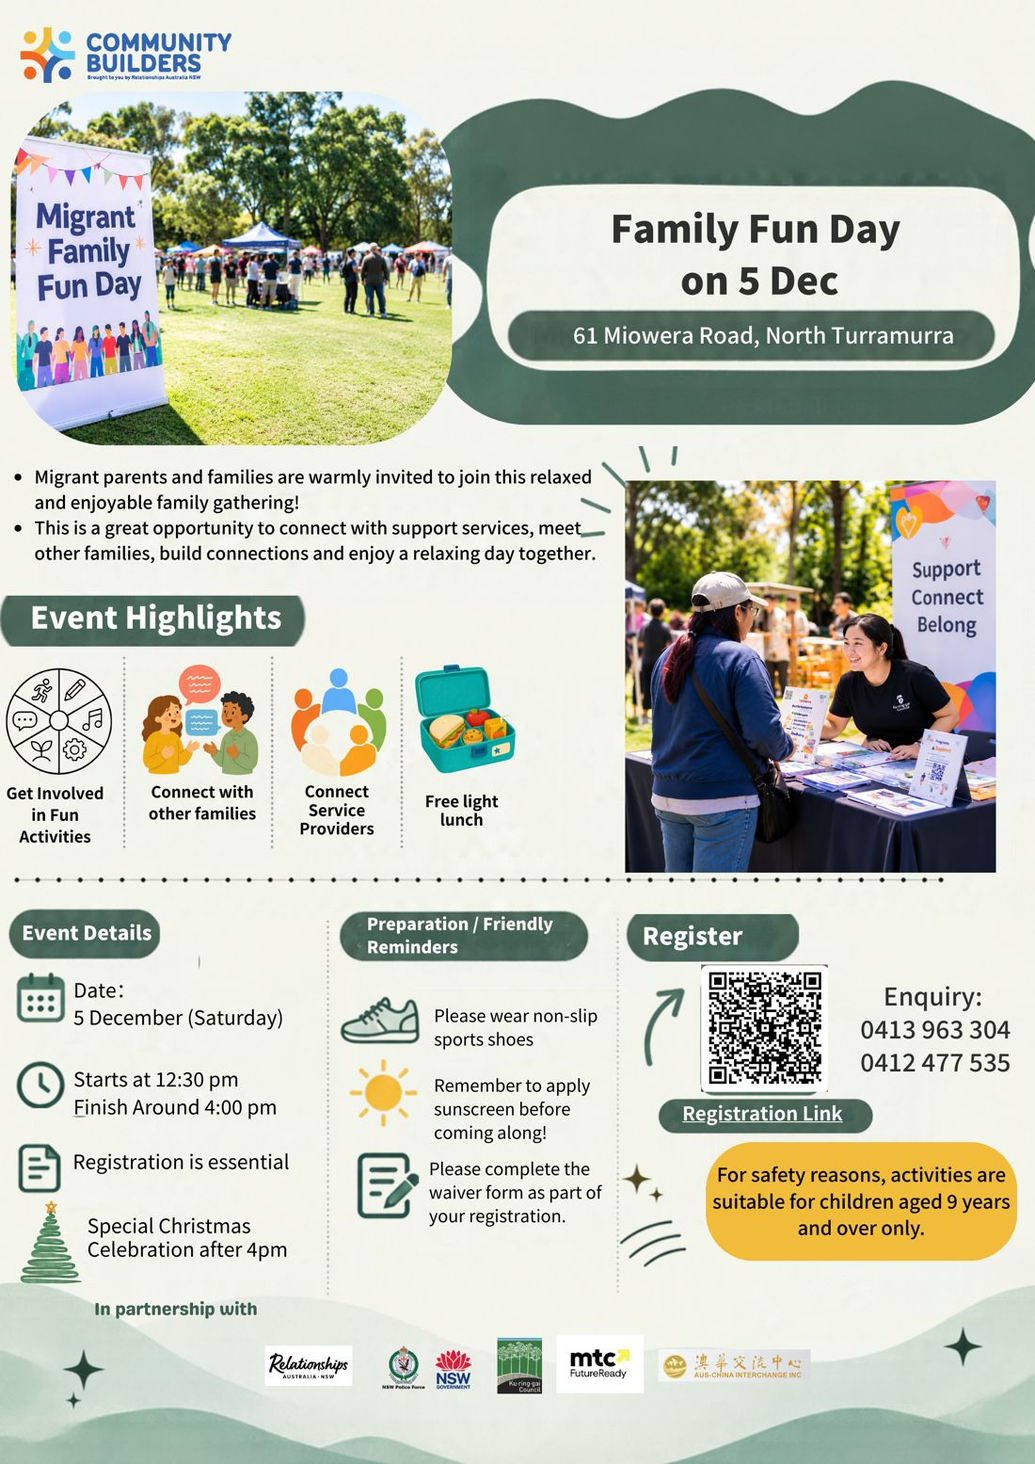
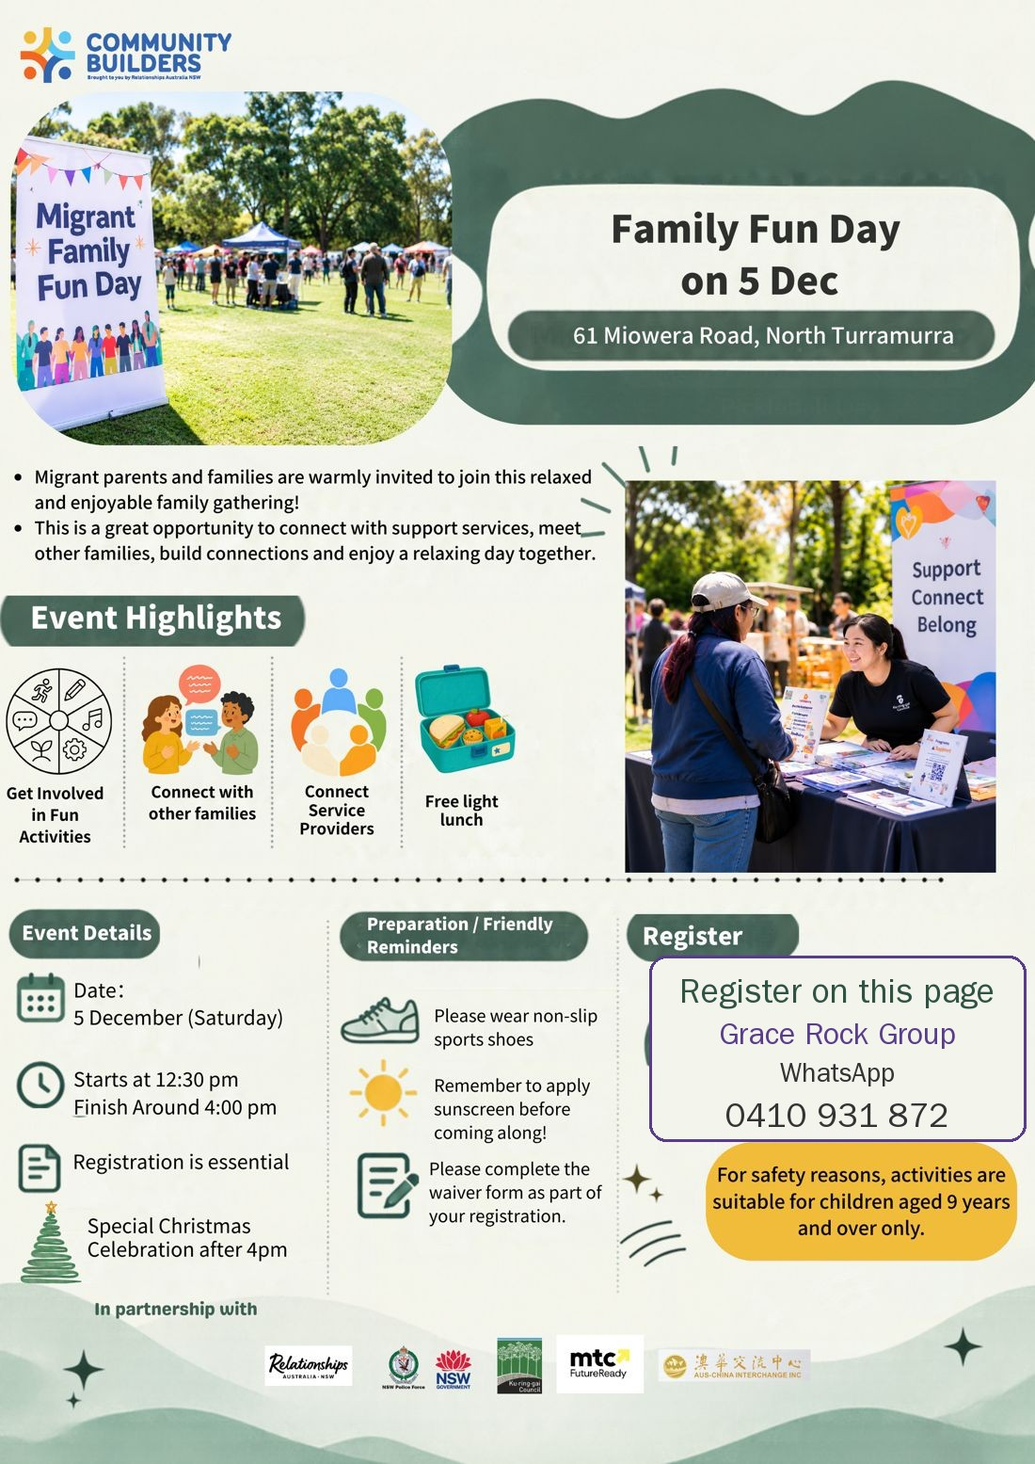
Dec 5 pages: register only via Grace Rock; cover other QR/contacts on posters (#126)
Claude-Session: https://claude.ai/code/session_0184zThUVwYNM5dNQvGb2R9g

Changed region(s): [[0.6182, 0.6482, 1.0, 0.8026]]

diff --git a/preview/events/family-fun-day-en.html b/preview/events/family-fun-day-en.html
@@ -66,7 +66,11 @@ form label{display:block;font-size:14px;color:var(--sub);margin:10px 0 4px}
 form input,form select{width:100%;padding:11px 12px;border:1px solid var(--line);border-radius:10px;background:var(--bg);color:var(--text);font-size:16px}
 form .ck{display:flex;gap:8px;align-items:flex-start;color:var(--text);font-size:14px;margin-top:12px}
 form .ck input{width:auto;margin-top:3px}
-.want{display:inline-block;font-size:13px;padding:2px 10px;border-radius:99px;background:var(--accent);color:#fff;margin:0 6px 6px 0}.sess{font-size:13px;color:var(--gold);letter-spacing:.05em;margin:0 0 2px}</style>
+.want{display:inline-block;font-size:13px;padding:2px 10px;border-radius:99px;background:var(--accent);color:#fff;margin:0 6px 6px 0}.sess{font-size:13px;color:var(--gold);letter-spacing:.05em;margin:0 0 2px}form label{display:block;font-size:14px;color:var(--sub);margin:10px 0 4px}
+form input,form select{width:100%;padding:11px 12px;border:1px solid var(--line);border-radius:10px;background:var(--bg);color:var(--text);font-size:16px;box-sizing:border-box}
+form .ck{display:flex;gap:8px;align-items:flex-start;color:var(--text);font-size:14px;margin-top:12px}
+form .ck input{width:auto;margin-top:3px}
+</style>
 </head>
 <body>
 <div class="top">
@@ -75,7 +79,7 @@ form .ck input{width:auto;margin-top:3px}
   <p class="s">Sat 5 Dec · 12:30–about 4:00pm · North Turramurra</p>
 </div>
 <main>
-  <img class="poster" src="../assets/family-fun-day/flyer-en.jpg" alt="Migrant Family Fun Day flyer">
+  <img class="poster" src="../assets/family-fun-day/flyer-en.jpg?v=2" alt="Migrant Family Fun Day flyer">
   <p class="lead" style="margin-top:16px">Migrant parents and families are warmly invited to a relaxed and enjoyable family gathering! A great chance to connect with support services, meet other families and enjoy a relaxing day together.</p>
 
   <h2>Event highlights</h2>
@@ -100,14 +104,25 @@ form .ck input{width:auto;margin-top:3px}
   <div class="card">
     <div class="row"><span>👟</span><span>Please wear non-slip sports shoes</span></div>
     <div class="row"><span>☀</span><span>Apply sunscreen before coming along</span></div>
-    <div class="row"><span>📝</span><span>Complete the waiver form when you register</span></div>
+    <div class="row"><span>📝</span><span>A waiver will need to be signed on the day</span></div>
   </div>
 
   <h2 id="f">Register</h2>
   <div class="card">
-    <p>Please register with the official form (includes the waiver).</p>
-    <a class="btn" href="https://forms.cloud.microsoft/Pages/ResponsePage.aspx?id=DQSIkWdsW0yxEjajBLZtrQAAAAAAAAAAAAEVx0w2jR5UNTY4REFPRk9JMkJUMzVJNklJOTcyNVVYSS4u" target="_blank" rel="noopener">Open registration form</a>
-    <div class="row" style="margin-top:12px"><span>Enquiry</span><span><a href="tel:0413963304">0413 963 304</a><br><a href="tel:0412477535">0412 477 535</a></span></div>
+    <p>Register here. Grace Rock Group records every registration and will reply to confirm.</p>
+    <form id="f2">
+      <label>Parent name</label><input name="name" required>
+      <label>Phone</label><input name="phone" type="tel" required>
+      <label>Adults</label><input name="ad" type="number" min="0" value="1">
+      <label>Children (9+)</label><input name="kid" type="number" min="0" value="1">
+      <label>Children's ages</label><input name="kage" placeholder="e.g. 10, 13">
+      <div class="ck"><input type="checkbox" name="eve" id="eve"><label for="eve" style="margin:0">We'll also stay for the Christmas party after 4pm</label></div>
+      <div class="ck"><input type="checkbox" name="vol" id="vol"><label for="vol" style="margin:0">Register as a Grace Rock volunteer (earn Good Points)</label></div>
+      <div class="ck"><input type="checkbox" name="news" id="news"><label for="news" style="margin:0">Tell me about future events that suit me (opt out any time)</label></div>
+      <button class="btn" type="submit" style="width:100%;border:0;margin-top:14px;cursor:pointer">Submit registration</button>
+    </form>
+    <div id="ok" style="display:none;margin-top:14px;padding:12px;border:2px solid #7a3fa0;border-radius:12px"><p><b>One more step!</b> Please press "Send" in WhatsApp. Your place is confirmed once we reply.</p><p>WhatsApp didn't open? Tap the button below, or copy the text and send it to WhatsApp 0410 931 872.</p><a id="wa" class="btn" target="_blank" rel="noopener">Open WhatsApp to send</a> <button type="button" class="btn" id="cp" style="border:0;cursor:pointer">Copy my registration</button><textarea id="tx" readonly style="width:100%;height:120px;margin-top:8px;box-sizing:border-box"></textarea></div>
+    <p class="note" style="font-size:13px;margin-top:10px">Questions: WhatsApp 0410 931 872 (Grace Rock Group)</p>
   </div>
 
   <h2>In partnership with</h2>
@@ -117,6 +132,14 @@ form .ck input{width:auto;margin-top:3px}
 
   <footer>© Grace Rock Group · Together, We Flourish</footer>
 </main>
-<div class="bar"><div><a class="btn" href="https://forms.cloud.microsoft/Pages/ResponsePage.aspx?id=DQSIkWdsW0yxEjajBLZtrQAAAAAAAAAAAAEVx0w2jR5UNTY4REFPRk9JMkJUMzVJNklJOTcyNVVYSS4u" target="_blank" rel="noopener">👨👩👧 Register now</a></div></div>
+<div class="bar"><div><a class="btn" href="#f">👨👩👧 Register</a></div></div>
+<script>
+document.getElementById('f2').addEventListener('submit',function(e){e.preventDefault();var d=new FormData(this),L=[];
+L.push('Hi, I would like to register for the 5 Dec Migrant Family Fun Day');
+[['name', 'Parent'], ['phone', 'Phone'], ['ad', 'Adults'], ['kid', 'Children'], ['kage', "Children's ages"]].forEach(function(k){var v=(d.get(k[0])||'').trim();if(v)L.push(k[1]+': '+v)});
+L.push('Staying for the Christmas party: '+(d.get('eve')?'Yes':'No'));L.push('Register as GR volunteer: '+(d.get('vol')?'Yes':'No'));L.push('Notify me of future events: '+(d.get('news')?'Yes':'No'));L.push('（Grace Rock）');
+var T=L.join('\n'),U='https://wa.me/61410931872?text='+encodeURIComponent(T);document.getElementById('tx').value=T;document.getElementById('wa').href=U;var o=document.getElementById('ok');o.style.display='block';o.scrollIntoView({behavior:'smooth',block:'center'});try{window.open(U,'_blank')}catch(x){}});
+document.getElementById('cp').addEventListener('click',function(){var t=document.getElementById('tx');t.select();try{document.execCommand('copy')}catch(x){}try{navigator.clipboard.writeText(t.value).catch(function(){})}catch(x){}this.textContent='Copied';});
+</script>
 </body>
 </html>

diff --git a/preview/events/family-fun-day.html b/preview/events/family-fun-day.html
@@ -66,7 +66,11 @@ form label{display:block;font-size:14px;color:var(--sub);margin:10px 0 4px}
 form input,form select{width:100%;padding:11px 12px;border:1px solid var(--line);border-radius:10px;background:var(--bg);color:var(--text);font-size:16px}
 form .ck{display:flex;gap:8px;align-items:flex-start;color:var(--text);font-size:14px;margin-top:12px}
 form .ck input{width:auto;margin-top:3px}
-.want{display:inline-block;font-size:13px;padding:2px 10px;border-radius:99px;background:var(--accent);color:#fff;margin:0 6px 6px 0}.sess{font-size:13px;color:var(--gold);letter-spacing:.05em;margin:0 0 2px}</style>
+.want{display:inline-block;font-size:13px;padding:2px 10px;border-radius:99px;background:var(--accent);color:#fff;margin:0 6px 6px 0}.sess{font-size:13px;color:var(--gold);letter-spacing:.05em;margin:0 0 2px}form label{display:block;font-size:14px;color:var(--sub);margin:10px 0 4px}
+form input,form select{width:100%;padding:11px 12px;border:1px solid var(--line);border-radius:10px;background:var(--bg);color:var(--text);font-size:16px;box-sizing:border-box}
+form .ck{display:flex;gap:8px;align-items:flex-start;color:var(--text);font-size:14px;margin-top:12px}
+form .ck input{width:auto;margin-top:3px}
+</style>
 </head>
 <body>
 <div class="top">
@@ -75,7 +79,7 @@ form .ck input{width:auto;margin-top:3px}
   <p class="s">12月5日（周六）12:30–约4:00pm · North Turramurra</p>
 </div>
 <main>
-  <img class="poster" src="../assets/family-fun-day/flyer-zh.jpg" alt="12月5日家庭活动日海报">
+  <img class="poster" src="../assets/family-fun-day/flyer-zh.jpg?v=2" alt="12月5日家庭活动日海报">
   <p class="lead" style="margin-top:16px">诚邀移民家长和孩子一起参加轻松愉快的家庭派对！这是了解社区机构、认识其他家庭、互相交流、放松身心的好机会。</p>
 
   <h2>活动亮点</h2>
@@ -100,14 +104,25 @@ form .ck input{width:auto;margin-top:3px}
   <div class="card">
     <div class="row"><span>👟</span><span>请穿防滑的球鞋</span></div>
     <div class="row"><span>☀</span><span>请提前涂好防晒霜</span></div>
-    <div class="row"><span>📝</span><span>报名时请填写 waiver（免责声明）</span></div>
+    <div class="row"><span>📝</span><span>活动当天需签 waiver（免责声明）</span></div>
   </div>
 
   <h2 id="f">报名</h2>
   <div class="card">
-    <p>请通过官方报名表报名（含 waiver）。</p>
-    <a class="btn" href="https://forms.cloud.microsoft/Pages/ResponsePage.aspx?id=DQSIkWdsW0yxEjajBLZtrQAAAAAAAAAAAAEVx0w2jR5UNTY4REFPRk9JMkJUMzVJNklJOTcyNVVYSS4u" target="_blank" rel="noopener">打开报名表</a>
-    <div class="row" style="margin-top:12px"><span>联系人</span><span><a href="tel:0413963304">0413 963 304</a><br><a href="tel:0412477535">0412 477 535</a></span></div>
+    <p>请在这里报名，提交后由雅实 Grace Rock 统一登记，并回复确认。</p>
+    <form id="f2">
+      <label>家长姓名</label><input name="name" required>
+      <label>电话</label><input name="phone" type="tel" required>
+      <label>成人人数</label><input name="ad" type="number" min="0" value="1">
+      <label>孩子人数（9岁以上）</label><input name="kid" type="number" min="0" value="1">
+      <label>孩子年龄</label><input name="kage" placeholder="例如 10岁、13岁">
+      <div class="ck"><input type="checkbox" name="eve" id="eve"><label for="eve" style="margin:0">4点后也留下参加圣诞晚会</label></div>
+      <div class="ck"><input type="checkbox" name="vol" id="vol"><label for="vol" style="margin:0">注册成为 雅实义工（得好人分）</label></div>
+      <div class="ck"><input type="checkbox" name="news" id="news"><label for="news" style="margin:0">以后有适合我的活动，请通知我（可随时取消）</label></div>
+      <button class="btn" type="submit" style="width:100%;border:0;margin-top:14px;cursor:pointer">提交报名</button>
+    </form>
+    <div id="ok" style="display:none;margin-top:14px;padding:12px;border:2px solid #7a3fa0;border-radius:12px"><p><b>还差一步！</b>请在 WhatsApp 里按「发送」，我们回复确认后才算报名成功。</p><p>没打开 WhatsApp？点下面按钮，或复制内容发到 WhatsApp 0410 931 872。</p><a id="wa" class="btn" target="_blank" rel="noopener">打开 WhatsApp 发送</a> <button type="button" class="btn" id="cp" style="border:0;cursor:pointer">复制报名内容</button><textarea id="tx" readonly style="width:100%;height:120px;margin-top:8px;box-sizing:border-box"></textarea></div>
+    <p class="note" style="font-size:13px;margin-top:10px">咨询：WhatsApp 0410 931 872（雅实 Grace Rock）</p>
   </div>
 
   <h2>合作机构</h2>
@@ -117,6 +132,14 @@ form .ck input{width:auto;margin-top:3px}
 
   <footer>© Grace Rock Group · 携手同行，共创美好</footer>
 </main>
-<div class="bar"><div><a class="btn" href="https://forms.cloud.microsoft/Pages/ResponsePage.aspx?id=DQSIkWdsW0yxEjajBLZtrQAAAAAAAAAAAAEVx0w2jR5UNTY4REFPRk9JMkJUMzVJNklJOTcyNVVYSS4u" target="_blank" rel="noopener">👨👩👧 我要报名</a></div></div>
+<div class="bar"><div><a class="btn" href="#f">👨👩👧 我要报名</a></div></div>
+<script>
+document.getElementById('f2').addEventListener('submit',function(e){e.preventDefault();var d=new FormData(this),L=[];
+L.push('您好，我报名12月5日家庭活动日 Family Fun Day');
+[['name', '家长姓名'], ['phone', '电话'], ['ad', '成人'], ['kid', '孩子'], ['kage', '孩子年龄']].forEach(function(k){var v=(d.get(k[0])||'').trim();if(v)L.push(k[1]+'：'+v)});
+L.push('4点后留下参加圣诞晚会：'+(d.get('eve')?'是':'否'));L.push('注册 GR 义工（得好人分）：'+(d.get('vol')?'是':'否'));L.push('以后活动通知我：'+(d.get('news')?'是':'否'));L.push('（Grace Rock）');
+var T=L.join('\n'),U='https://wa.me/61410931872?text='+encodeURIComponent(T);document.getElementById('tx').value=T;document.getElementById('wa').href=U;var o=document.getElementById('ok');o.style.display='block';o.scrollIntoView({behavior:'smooth',block:'center'});try{window.open(U,'_blank')}catch(x){}});
+document.getElementById('cp').addEventListener('click',function(){var t=document.getElementById('tx');t.select();try{document.execCommand('copy')}catch(x){}try{navigator.clipboard.writeText(t.value).catch(function(){})}catch(x){}this.textContent='已复制';});
+</script>
 </body>
 </html>

diff --git a/preview/index.html b/preview/index.html
@@ -324,7 +324,7 @@ dl.facts{grid-template-columns:1fr;gap:0}dl.facts dt{font-size:12.5px;letter-spa
     <p class="lede">Grace 正在组织、正在报名的活动。想一起去，点进去看详情，或直接私信 Grace。</p>
     <div class="now">
       <a class="now-i" style="border:2px solid var(--jac);box-shadow:0 4px 16px rgba(90,60,140,.18)" data-exp="2026-12-05" href="events/christmas-choir.html"><span class="d"><b>5</b><small>12月</small></span><img src="assets/glengarry/choir-poster.jpg" alt="" loading="lazy"><span class="rtag">⭐ 重点招募 · 盛装出席</span><span><h3>盛装合唱《友谊地久天长》</h3><p>12月5日（周六）晚 5:30 后，North Turramurra 圣诞晚会开场。穿上民族盛装或最美礼服一起唱，老中青幼、个人或全家都欢迎。</p></span><span class="go">看详情 · 报名 ›</span></a>
-      <a class="now-i" data-exp="2026-12-05" href="events/family-fun-day.html"><span class="d"><b>5</b><small>12月</small></span><img src="assets/family-fun-day/flyer-zh.jpg" alt="" loading="lazy"><span class="rtag">正在报名 · 12月5日周六</span><span><h3>移民家庭活动日 Family Fun Day</h3><p>12月5日（周六）12:30–约4pm，North Turramurra。家庭游戏、认识其他家庭、和社区服务机构交流，免费简餐。9岁以上孩子可参加，需报名。</p></span><span class="go">看详情 · 报名 ›</span></a>
+      <a class="now-i" data-exp="2026-12-05" href="events/family-fun-day.html"><span class="d"><b>5</b><small>12月</small></span><img src="assets/family-fun-day/flyer-zh.jpg?v=2" alt="" loading="lazy"><span class="rtag">正在报名 · 12月5日周六</span><span><h3>移民家庭活动日 Family Fun Day</h3><p>12月5日（周六）12:30–约4pm，North Turramurra。家庭游戏、认识其他家庭、和社区服务机构交流，免费简餐。9岁以上孩子可参加，需报名。</p></span><span class="go">看详情 · 报名 ›</span></a>
       <a class="now-i" data-exp="2027-02-18" href="events/wuyun-dongfang.html"><span class="d"><b>18</b><small>2月</small></span><img src="assets/wuyun/thumb.jpg" alt="" loading="lazy"><span class="rtag">Grace 参演 · 接受预订</span><span><h3>舞韵东方 · 古典舞专场</h3><p>2027年2月18日 Bankstown、2月28日 Canterbury。在 Grace 这里预订，团体统一取票。</p></span><span class="go">看详情 · 预订 ›</span></a>
       <a class="now-i" data-exp="2027-02-19" href="events/chunwan-2027.html"><span class="d"><b>19</b><small>2月</small></span><img src="assets/chunwan/poster.jpg" alt="" loading="lazy"><span class="rtag">接受预订</span><span><h3>2027 澳洲春晚</h3><p>2027年2月19日晚 7 点 ICC Sydney。演出票、游轮晚宴、AI 论坛套餐都可经 Grace 预订。</p></span><span class="go">看详情 · 预订 ›</span></a>
     </div>

diff --git a/preview/en.html b/preview/en.html
@@ -326,7 +326,7 @@ dl.facts{grid-template-columns:1fr;gap:0}dl.facts dt{font-size:12.5px;letter-spa
     <p class="lede">What Grace is organising and taking sign-ups for now. Tap for details, or message Grace to join.</p>
     <div class="now">
       <a class="now-i" style="border:2px solid var(--jac);box-shadow:0 4px 16px rgba(90,60,140,.18)" data-exp="2026-12-05" href="events/christmas-choir-en.html"><span class="d"><b>5</b><small>Dec</small></span><img src="assets/glengarry/choir-poster.jpg" alt="" loading="lazy"><span class="rtag">⭐ Now recruiting · traditional dress</span><span><h3>Auld Lang Syne in traditional dress</h3><p>Sat 5 Dec from 5:30pm, North Turramurra: the Christmas party opens with this choir. Come in traditional dress or your finest outfit. All ages, individuals or families.</p></span><span class="go">Details · sign up ›</span></a>
-      <a class="now-i" data-exp="2026-12-05" href="events/family-fun-day-en.html"><span class="d"><b>5</b><small>Dec</small></span><img src="assets/family-fun-day/flyer-en.jpg" alt="" loading="lazy"><span class="rtag">Sign-ups open · Sat 5 Dec</span><span><h3>Migrant Family Fun Day</h3><p>Sat 5 Dec, 12:30 to about 4pm, North Turramurra. Fun activities, meet other families, connect with service providers, free light lunch. Ages 9+, registration essential.</p></span><span class="go">Details · sign up ›</span></a>
+      <a class="now-i" data-exp="2026-12-05" href="events/family-fun-day-en.html"><span class="d"><b>5</b><small>Dec</small></span><img src="assets/family-fun-day/flyer-en.jpg?v=2" alt="" loading="lazy"><span class="rtag">Sign-ups open · Sat 5 Dec</span><span><h3>Migrant Family Fun Day</h3><p>Sat 5 Dec, 12:30 to about 4pm, North Turramurra. Fun activities, meet other families, connect with service providers, free light lunch. Ages 9+, registration essential.</p></span><span class="go">Details · sign up ›</span></a>
       <a class="now-i" data-exp="2027-02-18" href="events/wuyun-dongfang-en.html"><span class="d"><b>18</b><small>Feb</small></span><img src="assets/wuyun/thumb.jpg" alt="" loading="lazy"><span class="rtag">Grace performing · bookings open</span><span><h3>Dance Rhythms of the Orient</h3><p>Classical Chinese dance: 18 Feb 2027 Bankstown, 28 Feb Canterbury. Book with Grace, tickets collected as a group.</p></span><span class="go">Details · book ›</span></a>
       <a class="now-i" data-exp="2027-02-19" href="events/chunwan-2027-en.html"><span class="d"><b>19</b><small>Feb</small></span><img src="assets/chunwan/poster.jpg" alt="" loading="lazy"><span class="rtag">Bookings open</span><span><h3>2027 Australian Chinese New Year Gala</h3><p>7pm, 19 Feb 2027, ICC Sydney. Show tickets, cruise gala dinner and the AI Forum package, bookable via Grace.</p></span><span class="go">Details · book ›</span></a>
     </div>

diff --git a/preview/events/christmas-choir.html b/preview/events/christmas-choir.html
@@ -87,7 +87,7 @@ form .ck input{width:auto;margin-top:3px}
       <li><b>多元民族盛装合唱</b>合唱《友谊地久天长》（Auld Lang Syne）。</li>
       <li><b>送小礼品，继续参加晚会</b>晚会到 9:00pm，提供烧烤、小吃和饮料。</li>
     </ul>
-    <img class="poster" style="margin-top:12px" src="../assets/glengarry/choir-poster.jpg" alt="盛装合唱招募海报" loading="lazy">
+    <img class="poster" style="margin-top:12px" src="../assets/glengarry/choir-poster.jpg?v=2" alt="盛装合唱招募海报" loading="lazy">
   </div>
   <div class="card">
     <div class="row" style="border-top:0"><span>地点</span><span><a href="https://www.google.com/maps/search/?api=1&query=61%20Miowera%20Rd%20North%20Turramurra%20NSW%202074" target="_blank" rel="noopener">Glengarry Jinwen Wonderland<br>61 Miowera Rd, North Turramurra NSW 2074 ›</a></span></div>
@@ -123,7 +123,6 @@ form .ck input{width:auto;margin-top:3px}
     <div class="row"><span>主办</span><span>Glengarry Jinwen Gallery &amp;<br>Aus–China Interchange</span></div>
     <div class="row"><span>技术赞助</span><span>雅实 Grace Rock Group（GR）</span></div>
     <div class="row"><span>媒体合作伙伴</span><span>FM 90.1 慈善社区电台<br>活动相关节目请收听 FM 90.1，播出时间待公布</span></div>
-    <div class="row"><span>晚会联系</span><span>Dahao Lin · 0466 179 953</span></div>
   </div>
 
   <h2>报名</h2>

diff --git a/preview/events/christmas-choir-en.html b/preview/events/christmas-choir-en.html
@@ -87,7 +87,7 @@ form .ck input{width:auto;margin-top:3px}
       <li><b>Multicultural choir in traditional dress</b>Singing Auld Lang Syne together.</li>
       <li><b>Small gift, then enjoy the evening</b>The celebration runs until 9:00pm with barbecue, snacks & drinks.</li>
     </ul>
-    <img class="poster" style="margin-top:12px" src="../assets/glengarry/choir-poster.jpg" alt="Choir poster" loading="lazy">
+    <img class="poster" style="margin-top:12px" src="../assets/glengarry/choir-poster.jpg?v=2" alt="Choir poster" loading="lazy">
   </div>
   <div class="card">
     <div class="row" style="border-top:0"><span>Venue</span><span><a href="https://www.google.com/maps/search/?api=1&query=61%20Miowera%20Rd%20North%20Turramurra%20NSW%202074" target="_blank" rel="noopener">Glengarry Jinwen Wonderland<br>61 Miowera Rd, North Turramurra NSW 2074 ›</a></span></div>
@@ -123,7 +123,6 @@ form .ck input{width:auto;margin-top:3px}
     <div class="row"><span>Hosts</span><span>Glengarry Jinwen Gallery &amp;<br>Aus–China Interchange</span></div>
     <div class="row"><span>Technology sponsor</span><span>Grace Rock Group (GR)</span></div>
     <div class="row"><span>Media partner</span><span>FM 90.1 community charity radio<br>Tune in to FM 90.1 for event coverage; air times TBC</span></div>
-    <div class="row"><span>Evening contact</span><span>Dahao Lin · 0466 179 953</span></div>
   </div>
 
   <h2>Register</h2>

diff --git a/preview/events/glengarry-christmas-en.html b/preview/events/glengarry-christmas-en.html
@@ -79,7 +79,7 @@ form .ck input{width:auto;margin-top:3px}
 </div>
 <main>
   <p class="lead">You and your family are warmly invited to Glengarry Jinwen Wonderland to celebrate Christmas, connect and share the joy. Barbecue, snacks and drinks are provided, and traditional attire is welcome.</p>
-  <img class="poster" style="margin-top:16px" src="../assets/glengarry/poster.jpg" alt="Glengarry Christmas Celebration poster">
+  <img class="poster" style="margin-top:16px" src="../assets/glengarry/poster.jpg?v=2" alt="Glengarry Christmas Celebration poster">
 
   <h2>Event details</h2>
   <div class="card">
@@ -111,7 +111,6 @@ form .ck input{width:auto;margin-top:3px}
     <div class="row"><span>Hosts</span><span>Glengarry Jinwen Gallery &amp;<br>Aus–China Interchange</span></div>
     <div class="row"><span>Technology sponsor</span><span>Grace Rock Group (GR)</span></div>
     <div class="row"><span>Media partner</span><span>FM 90.1 community charity radio<br>Tune in to FM 90.1 for event coverage; air times TBC</span></div>
-    <div class="row"><span>Host contact</span><span>Dahao Lin · 0466 179 953</span></div>
   </div>
 
   <h2>Register</h2>

diff --git a/preview/events/glengarry-christmas.html b/preview/events/glengarry-christmas.html
@@ -79,7 +79,7 @@ form .ck input{width:auto;margin-top:3px}
 </div>
 <main>
   <p class="lead">诚邀您和家人来 Glengarry Jinwen Wonderland 一起庆祝圣诞、认识新朋友。现场提供烧烤、小吃和饮料，欢迎穿上您的传统服装。</p>
-  <img class="poster" style="margin-top:16px" src="../assets/glengarry/poster.jpg" alt="Glengarry Christmas Celebration poster">
+  <img class="poster" style="margin-top:16px" src="../assets/glengarry/poster.jpg?v=2" alt="Glengarry Christmas Celebration poster">
 
   <h2>活动信息</h2>
   <div class="card">
@@ -111,7 +111,6 @@ form .ck input{width:auto;margin-top:3px}
     <div class="row"><span>主办</span><span>Glengarry Jinwen Gallery &amp;<br>Aus–China Interchange</span></div>
     <div class="row"><span>技术赞助</span><span>雅实 Grace Rock Group（GR）</span></div>
     <div class="row"><span>媒体合作伙伴</span><span>FM 90.1 慈善社区电台<br>活动相关节目请收听 FM 90.1，播出时间待公布</span></div>
-    <div class="row"><span>主办方联系</span><span>Dahao Lin · 0466 179 953</span></div>
   </div>
 
   <h2>报名</h2>
